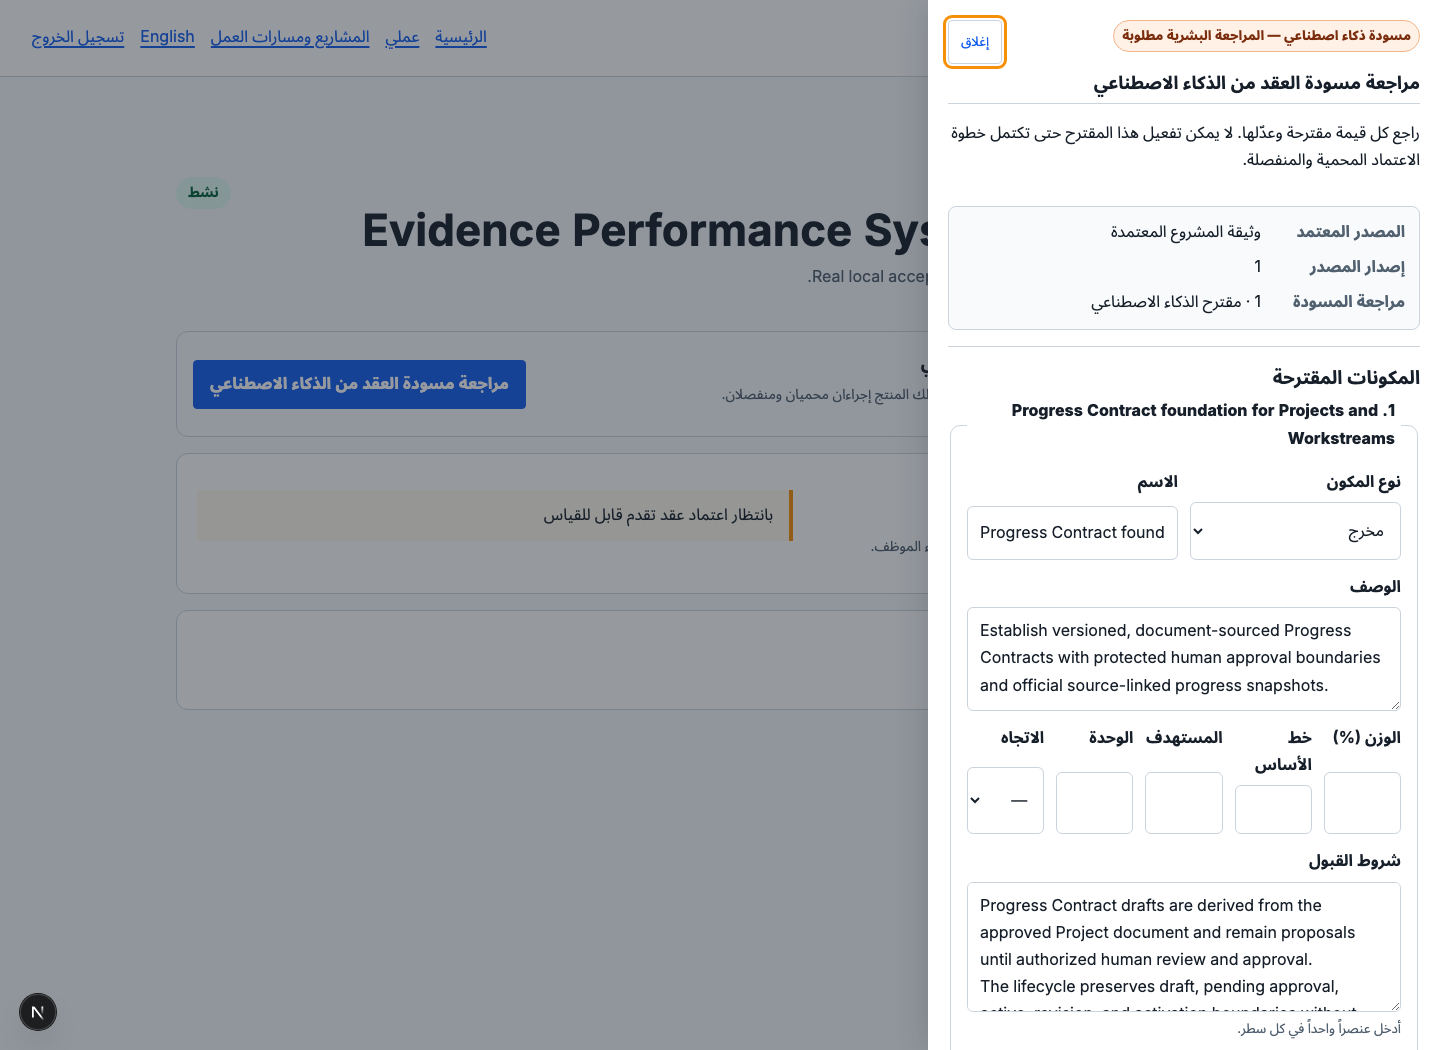
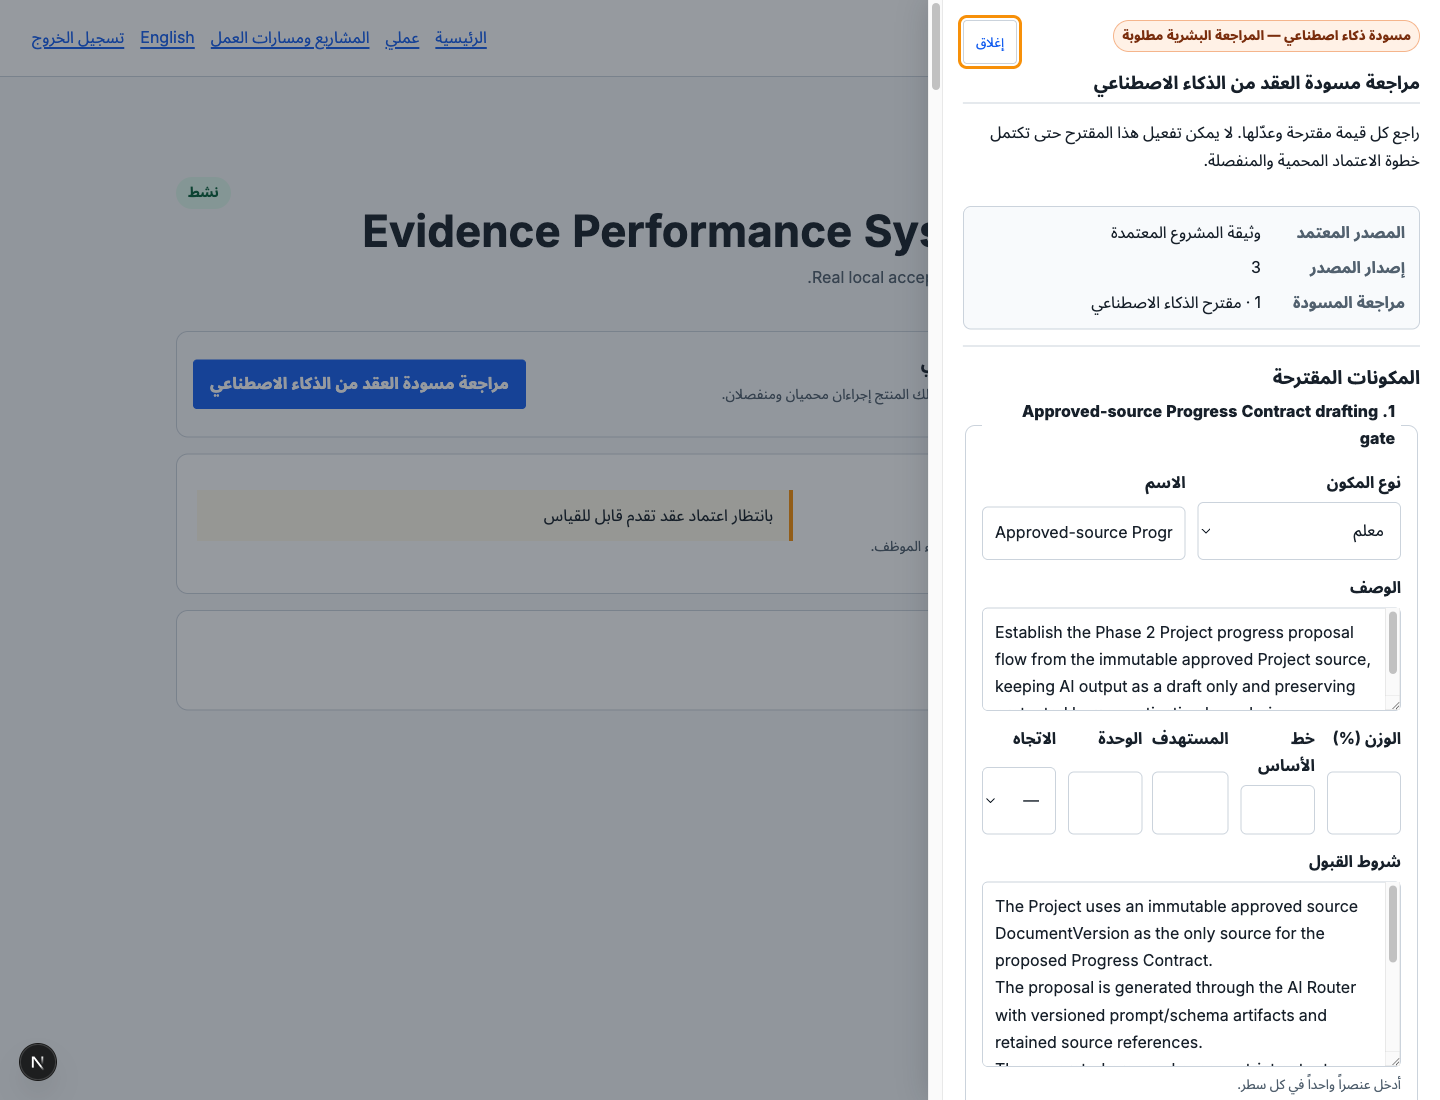
docs: finalize codex dogfood acceptance

diff --git a/docs/acceptance/CODEX_DOGFOOD_ACCEPTANCE.md b/docs/acceptance/CODEX_DOGFOOD_ACCEPTANCE.md
@@ -16,32 +16,37 @@ The Project is `Evidence Performance System — Phase 2`, the Workstream is `Pha
 
 ## Exact approved source
 
-- Repository commit: `b73c8e9049abdee72c7702074766e1e8b4b998d4`
+- Repository commit: `29da3975b2633fdd01093b2abc9b08d169f2e1f7`
 - Pull Request reference: `Haithamhaj/evidence-performance-evaluation-system#5`
-- Pull Request base commit: not recorded separately in historical DocumentVersion `1`; pending a governed rerun
-- Pull Request head commit: not recorded separately in historical DocumentVersion `1`; pending a governed rerun
-- Approved Project DocumentVersion: `1` (`5019…32b3`)
[1 lines of base64/hex data omitted]
+- Pull Request base commit: `b5e679e56d208f8734abcc3f013b62219c227915`
+- Pull Request head commit: `29da3975b2633fdd01093b2abc9b08d169f2e1f7`
+- Approved Project DocumentVersion: `3` (`cbe1…6983`)
[1 lines of base64/hex data omitted]
 
-No new live snapshot is claimed by this correction. The next explicit local acceptance rerun must
-create a new immutable DocumentVersion containing the exact Pull Request reference, base commit,
-and head commit.
+DocumentVersion `2` remains as an immutable incomplete local attempt. Its readiness artifact was
+rejected before proposal generation because one AI evidence reference did not satisfy the
+database-safe opaque-reference format. The bounded correction hashes the Pull Request URL inside
+the AI evidence-reference array while preserving the exact URL and exact base/head commits in the
+audited source lineage. DocumentVersion `2` has zero readiness checks and zero draft requests;
+DocumentVersion `3` is the governed approved source used below.
 
 | Repository source                                                                | SHA-256                                                            |
 | -------------------------------------------------------------------------------- | ------------------------------------------------------------------ |
[7 lines of base64/hex data omitted]
 
-The seed was run twice. Both runs returned the same Project, Workstream, contributor, owner, DocumentVersion, checksum, and six Work Items. No approved history was rewritten. Repository content is stored and sent to AI as untrusted evidence.
+The successful DocumentVersion `3` seed was run twice. Both runs returned the same Project,
+Workstream, contributor, owner, DocumentVersion, checksum, and six Work Items. No approved history
+was rewritten. Repository content is stored and sent to AI as untrusted evidence.
 
 ## Redacted live AI trace
 
 - Project: `c2ab…b066`
-- Draft request: `43c9…0b0a`
-- AI run: `d93b…4f17`
+- Draft request: `1352…55f0`
+- AI run: `75c6…1493`
 - State: `ready`
 - Revision: `1`, origin `ai`
 - Model route: governed system-level GPT-5.5 route, config `2`
@@ -53,19 +58,31 @@ The seed was run twice. Both runs returned the same Project, Workstream, contrib
 
 The provider credential stayed outside the repository. It was not printed, copied, moved, committed, placed in browser state, or included in screenshots. Failed attempts preserved safe failure categories only and stored no invalid proposal content.
 
+## Bounded independent review
+
+The required specification-compliance and security/code-quality reviews are complete. All four
+blocking specification findings are resolved, including independent confirmation that the live
+DocumentVersion `3` and its ready proposal pin the exact Pull Request base/head lineage. The
+reviewer independently confirmed zero human revisions, no applied contract, and zero contract
+transitions or progress snapshots.
+
+No P0/P1 finding remains. Two non-blocking P2 maintenance observations are deferred in
+[GitHub issue #6](https://github.com/Haithamhaj/evidence-performance-evaluation-system/issues/6);
+they do not weaken authorization, AI routing, source lineage, or the protected human gate.
+
 ## Proposed components
 
 The live proposal contains nine operational components. All weights are `null`, so the review UI safely defaults to `stage_gate`.
 
-1. Progress Contract foundation for Projects and Workstreams
-2. My Work update context with Project-required scope
-3. Draft-first daily Update lifecycle
-4. Codex dogfood Project contract-proposal gate
-5. Contract-aware GitHub Project automation
-6. Unified manual and voice Update sources
-7. Check-ins, monthly readiness, and manager operational view
-8. Neutral Evaluation Fact View preparation
-9. English pilot with preserved Arabic and RTL foundation
+1. Approved-source Progress Contract drafting gate
+2. Unified manual-source Update fallback
+3. Voice and combined-source Update journey
+4. Manual and voice sources acceptance checkpoint
+5. Check-ins and monthly readiness operational checkpoint
+6. Manager operational view checkpoint
+7. Neutral evaluation fact composition
+8. Read-only Fact View and final Phase 2 checkpoint
+9. Protected boundary compliance
 
 All proposed confirmations are `human_confirmed`. No deterministic GitHub mapping was activated. The proposal explicitly records bounded-source omissions, missing approval-role detail, optional weights, Workstream-contract scope, timing decisions, and final evidence requirements as human-review questions.
 
@@ -82,14 +99,20 @@ Haitham must review and may edit the proposal before deciding whether to apply i
 
 ## Authenticated UI evidence
 
-The persisted `ready` revision was opened through the real local API and a real signed local Keycloak access token mapped to the existing pilot manager. The temporary capture identity and client were deleted after capture; no token or cookie was written to disk.
+The persisted `ready` revision was opened through the real local API and a real signed local
+Keycloak session mapped to the existing pilot manager. A local-only Product Owner review identity
+remains available outside the repository for the protected review gate. No token or cookie was
+written to the repository or screenshots.
 
 - `docs/product/screenshots/phase-2-production/codex-dogfood-contract/01-live-review-en-desktop.png`
 - `docs/product/screenshots/phase-2-production/codex-dogfood-contract/02-live-review-ar-desktop.png`
 - `docs/product/screenshots/phase-2-production/codex-dogfood-contract/03-live-review-en-mobile.png`
 - `docs/product/screenshots/phase-2-production/codex-dogfood-contract/04-live-review-ar-mobile.png`
 
-The English and Arabic UI exposes the AI-proposal label, approved source version, editable component fields, and separate activation boundary. Arabic is RTL at desktop and 390px; neither mobile locale has horizontal overflow. The AI proposal itself was requested in English, so generated component content remains English inside the Arabic review shell.
+The refreshed English and Arabic screenshots show approved source version `3`, the AI-proposal
+label, editable component fields, and the separate activation boundary. Arabic is RTL at desktop
+and 390px; neither mobile locale has horizontal overflow. The AI proposal itself was requested in
+English, so generated component content remains English inside the Arabic review shell.
 
 ## Remaining gate
 

diff --git a/project-state/PROJECT_STATE.md b/project-state/PROJECT_STATE.md
@@ -42,9 +42,10 @@ Hold at the protected Product Owner gate for the live Codex dogfood Progress Con
 - The bounded dogfood design is `docs/superpowers/specs/2026-07-19-codex-dogfood-project-design.md`; the Product Owner approved it in writing on 2026-07-19.
 - The active execution plan now inserts Bundle 1.5 before GitHub automation: versioned `project.progress-contract.draft` artifacts, durable AI proposals and human revisions, the protected review/activation UI, and the real Codex Project seed/acceptance journey.
 - The subsequent GitHub bundle uses the same active human-approved Codex contract and real repository; deterministic fixtures verify safety before live GitHub App reconciliation.
-- The real local Codex Project seed is safely rerunnable at repository commit `b73c8e9`: one Project, one Workstream, exact approved DocumentVersion `1`, six remaining-plan Work Items, and no performance or raw-activity progress rows.
-- Live GPT-5.5 produced persisted proposal revision `1` through the governed AI Router. The redacted trace is prompt `project-progress-contract-draft.v2`, output schema `project-progress-contract-draft.v1`, route config `2`, succeeded with human approval pending.
+- The real local Codex Project seed is safely rerunnable at repository commit `29da397`: one Project, one Workstream, exact approved DocumentVersion `3`, six remaining-plan Work Items, and no performance or raw-activity progress rows. Its audited lineage pins Pull Request #5 base `b5e679e` and head `29da397`.
+- Live GPT-5.5 produced persisted proposal revision `1` for DocumentVersion `3` through the governed AI Router. The redacted trace is prompt `project-progress-contract-draft.v2`, output schema `project-progress-contract-draft.v1`, route config `2`, succeeded with human approval pending.
 - The persisted proposal was reviewed through the real local API and signed Keycloak authentication in English and Arabic/RTL at desktop and 390px. No human edit, application, submission, approval, activation, GitHub binding, or official progress recalculation was performed.
+- The bounded specification and security/code-quality reviews have no remaining P0/P1 finding. Deferred P2 maintenance observations are recorded in GitHub issue #6 and do not block the Product Owner gate.
 - Acceptance evidence is `docs/acceptance/CODEX_DOGFOOD_ACCEPTANCE.md`; live screenshots are under `docs/product/screenshots/phase-2-production/codex-dogfood-contract/`.
 
 ## Active Decisions

diff --git a/docs/superpowers/plans/2026-07-19-unified-daily-work-github-progress-plan.md b/docs/superpowers/plans/2026-07-19-unified-daily-work-github-progress-plan.md
@@ -945,7 +945,7 @@ Perform one specification-compliance review and one security/code-quality review
 
 Record exact commit/document version, redacted AI route/prompt/schema versions, proposed components, human edits, activation state, known missing behavior, and screenshots. Do not include secrets or unredacted private content.
 
-- [ ] **Step 8: Commit and push the checkpoint**
+- [x] **Step 8: Commit and push the checkpoint**
 
 ```bash
 git add scripts package.json tests/e2e docs/acceptance docs/product project-state/PROJECT_STATE.md
@@ -953,7 +953,7 @@ git commit -m "test: prove the codex project contract journey"
 git push origin codex/phase-2-updates-evidence-readiness
 ```
 
-- [ ] **Step 9: Stop only at the protected human activation gate**
+- [x] **Step 9: Stop only at the protected human activation gate**
 
 Haitham reviews the live AI proposal and may edit it. GitHub automation begins only after Haitham activates the selected Progress Contract version. AI and Codex cannot approve on the human’s behalf.
 
